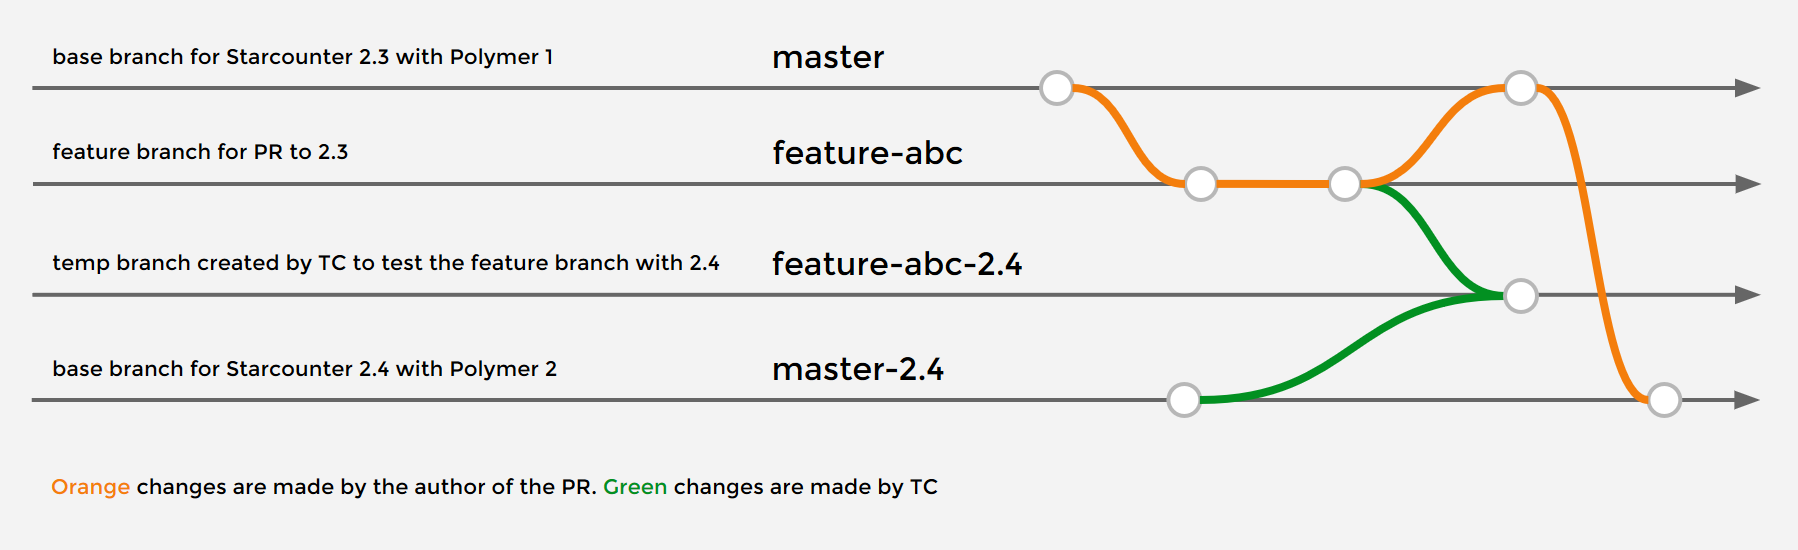
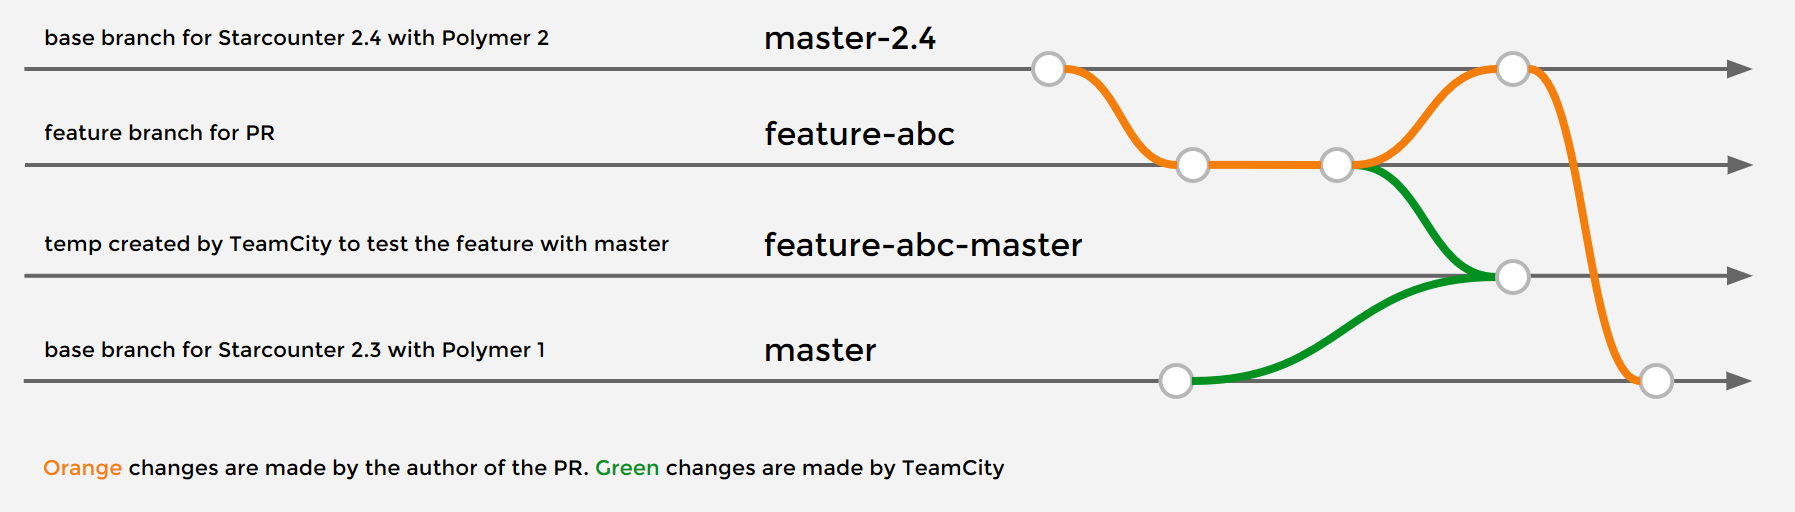
update the diagram according to the current workflow of the Web Platform Team

diff --git a/CONTRIBUTING.md b/CONTRIBUTING.md
@@ -2,19 +2,19 @@
 
 ## Branches
 
-This repo supports Starcounter 2.3.1 with Polymer 1 (`master` branch) and Starcounter 2.4.0 with Polymer 2 (`master-2.4` branch). The views in the repo are hybrid.
+This repo supports Starcounter 2.4.0 with Polymer 2 (`master-2.4` branch) and Starcounter 2.3.1 with Polymer 1 (`master` branch). The views in the repo are hybrid.
 
-All changes should be hybrid, made as a PR to the `master` branch. 
+All changes should be hybrid, made as a PR to the `master-2.4` branch. 
 
 The build server is configured to attempt testing the PR with Starcounter 2.3.1 and 2.4.0 automatically.
 
-The person who merges the PR to `master`, should also do the manual merge of `master` to `master-2.4` (that doesn't have to be a PR).
+The person who merges the PR to `master-2.4`, should also do the manual merge of `master-2.4` to `master`, but only if the TeamCity build is passing with Starcounter 2.3. This does not have to be a PR.
 
 The following diagram illustrates the typical workflow:
 
 ![](./docs/branches.png)
 
-If it is not possible to make a fully hybrid change, please split the PR into two parts - one hybrid part for `master` and one special part for `master-2.4`.
+If it is not possible to make a fully hybrid change, please split the PR into two parts - one common part for `master-2.4` and one special part for `master`.
 
 ## How to build and run
 
